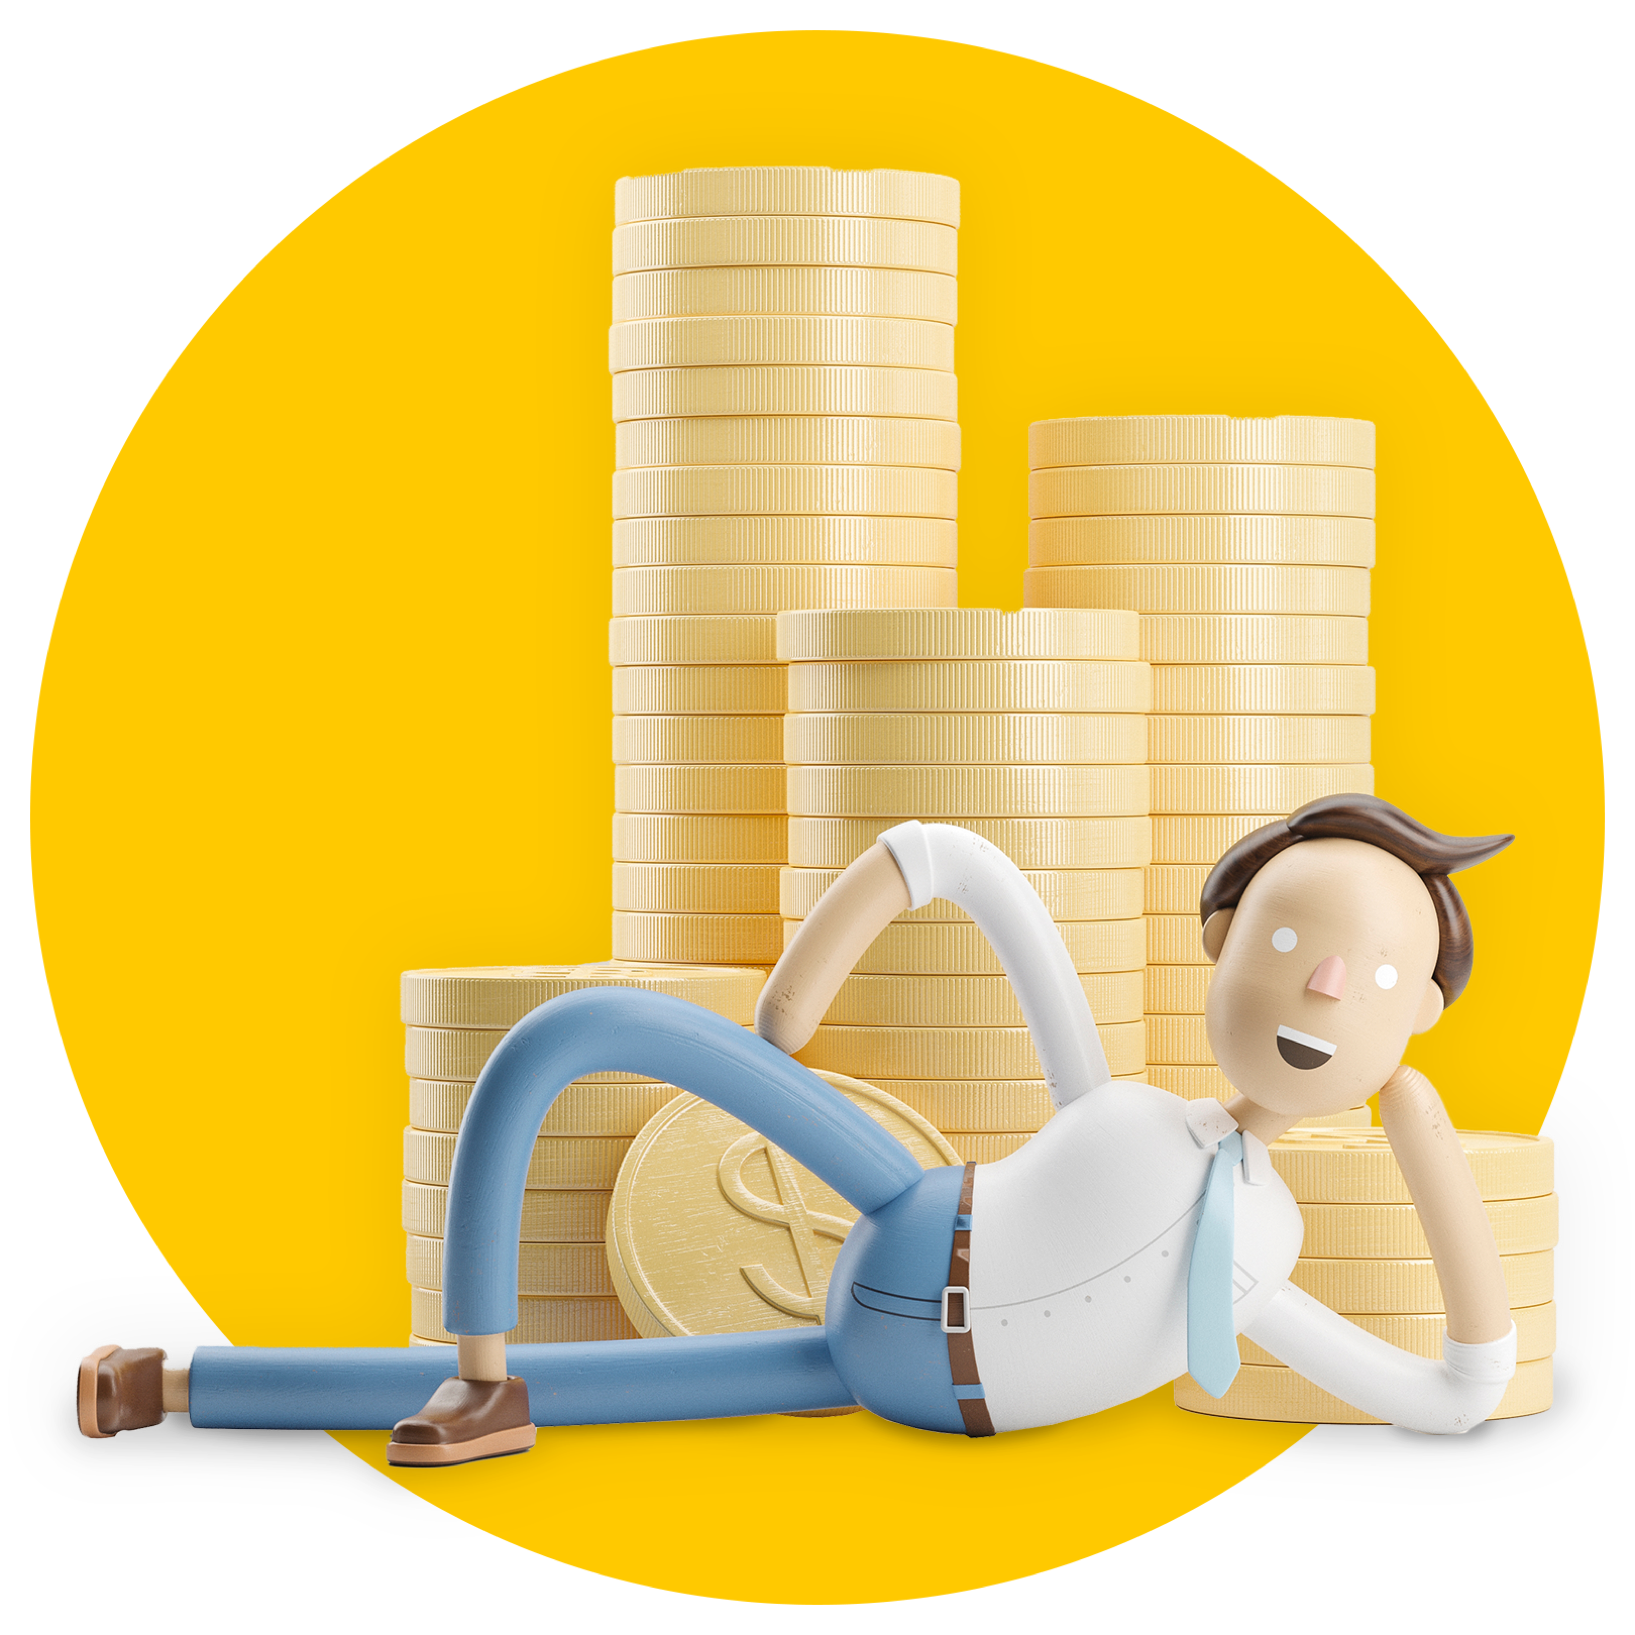
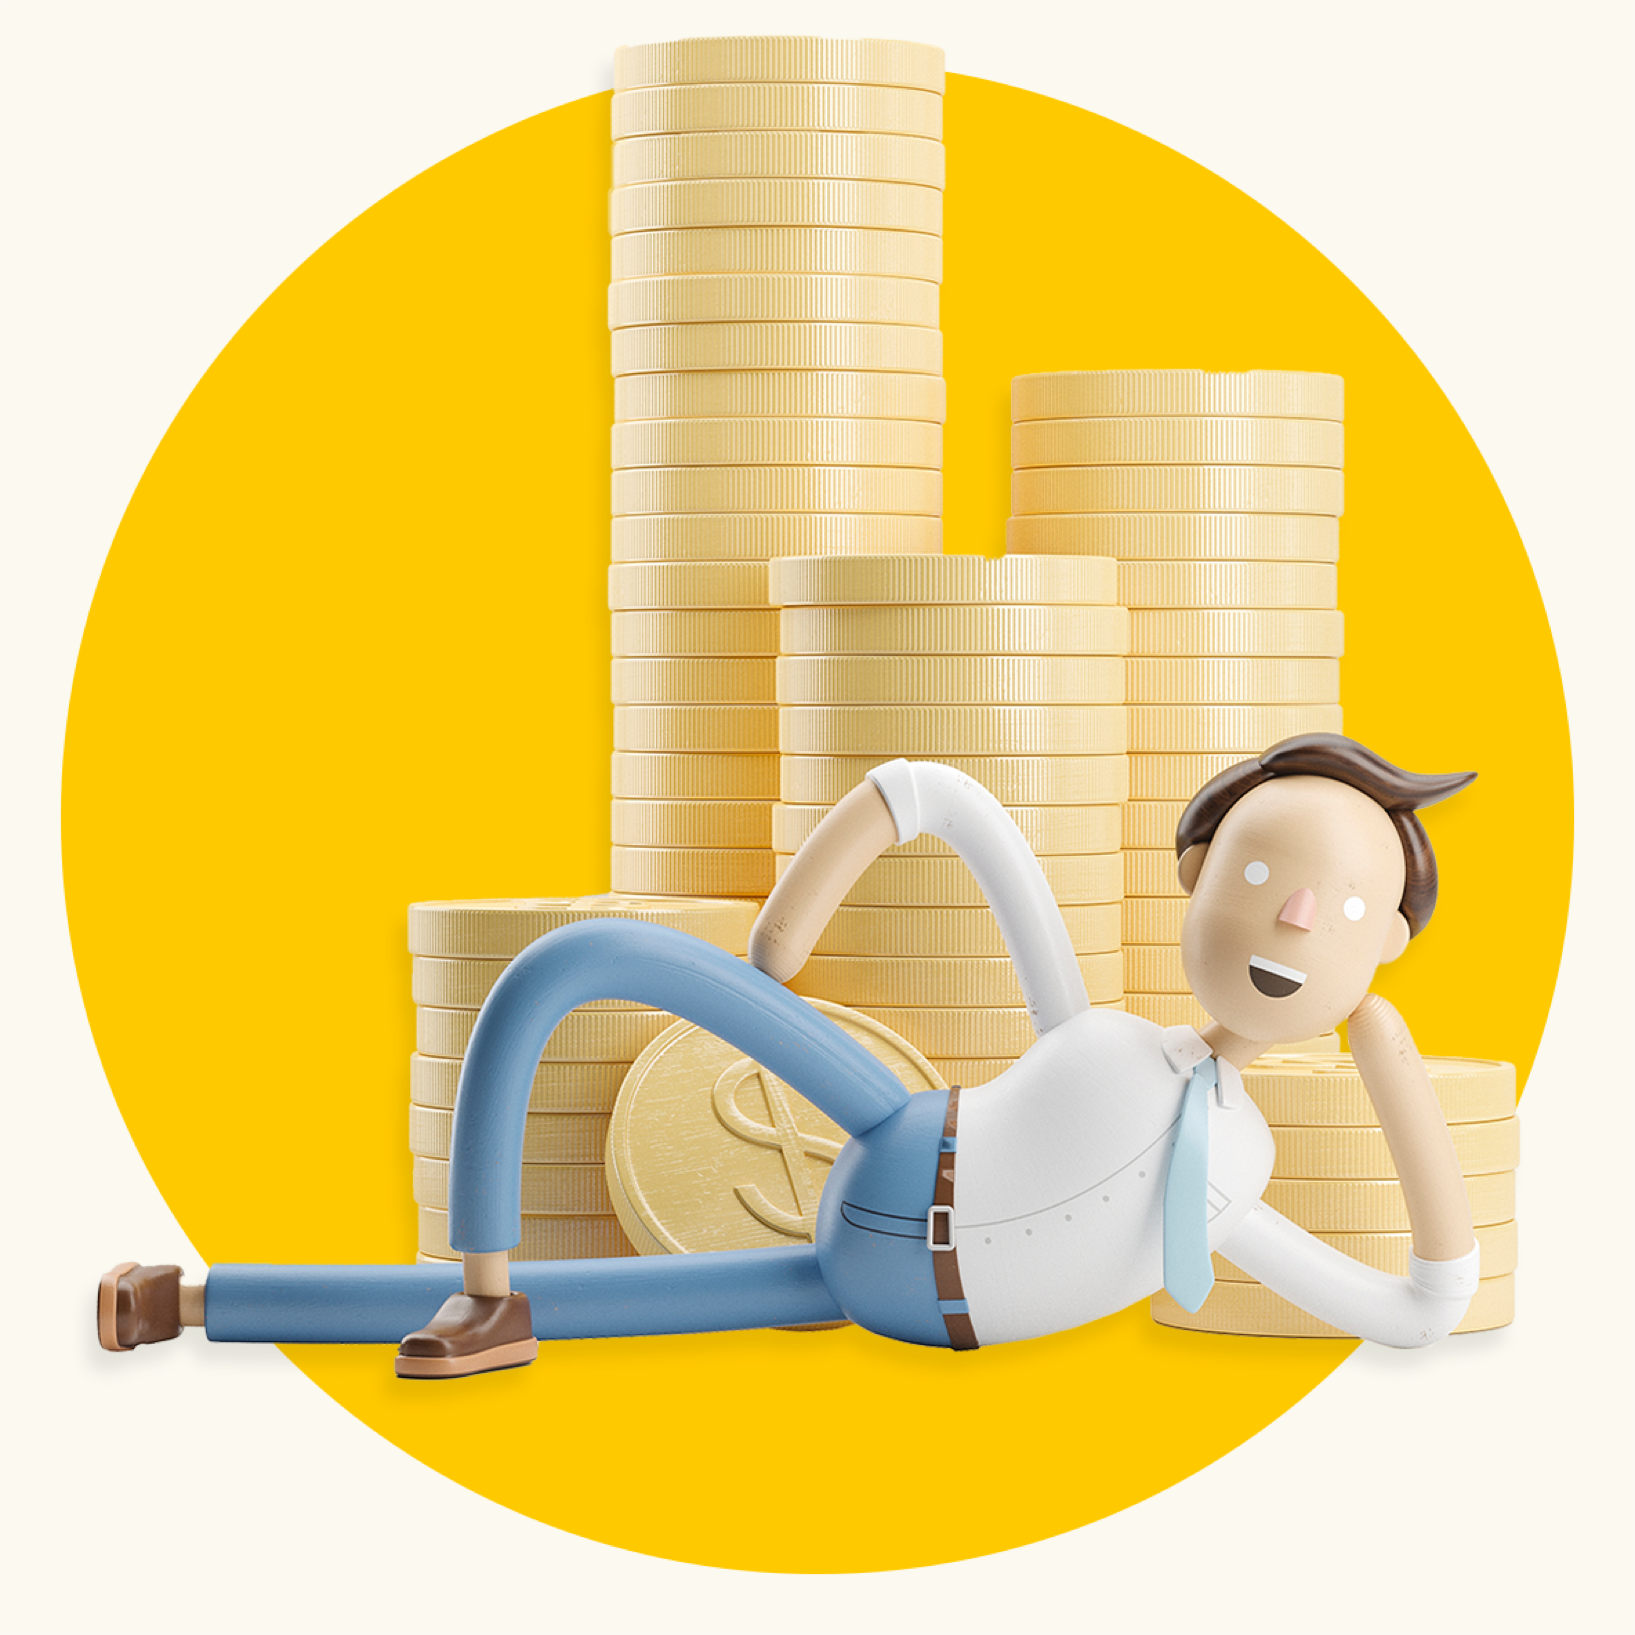
update images

diff --git a/header.php b/header.php
@@ -19,7 +19,17 @@
     <div class="container px-0">
       <nav class="navbar navbar-expand-md navbar-light" role="navigation">
 
-          <a class="navbar-brand" href="<?php echo get_home_url(); ?>">autobahn</a>
+          <a class="navbar-brand" href="<?php echo get_home_url(); ?>">
+           <svg xmlns="http://www.w3.org/2000/svg" width="104" height="18" viewBox="0 0 104 18">
+              <g fill="none" fill-rule="evenodd">
+                  <g fill="#3B012D" fill-rule="nonzero">
+                      <g>
+                          <path d="M4.152 17.371c1.68 0 3.048-.623 3.96-1.92h.048c0 .6.048 1.129.168 1.632h3.024c-.216-.815-.336-1.8-.336-3.335V9.334c0-3.192-1.776-4.823-5.232-4.823-3.48 0-5.16 1.871-5.28 4.199h3.264c.048-1.152.768-1.848 2.016-1.848 1.176 0 1.992.624 1.992 2.16v.431c-.768.048-2.136.192-3.048.336C1.2 10.341 0 11.685 0 13.676c0 2.112 1.56 3.695 4.152 3.695zm1.008-2.399c-1.176 0-1.8-.624-1.8-1.536 0-.983.576-1.44 1.968-1.68.72-.12 1.728-.215 2.448-.263v.456c0 1.104-.12 1.751-.696 2.327-.48.48-1.224.696-1.92.696zm13.056 2.4c1.56 0 2.784-.744 3.576-1.824h.048v1.535h3.144V4.895h-3.36v6.526c0 2.207-1.008 3.311-2.4 3.311-1.32 0-2.136-.84-2.136-2.687v-7.15h-3.36v7.486c0 3.31 1.752 4.99 4.488 4.99zm14.592-.12c.576 0 1.32-.097 1.776-.24v-2.568c-.216.072-.552.12-.864.12-1.152 0-1.584-.528-1.584-1.871V7.39h2.328V4.895h-2.328V1.728h-3.36v3.167h-1.968V7.39h1.968v5.902c0 2.832 1.224 3.96 4.032 3.96zm9.12.215c3.816 0 6.24-2.519 6.24-6.478 0-3.959-2.424-6.478-6.24-6.478-3.816 0-6.24 2.52-6.24 6.478 0 3.959 2.424 6.478 6.24 6.478zm0-2.591c-1.656 0-2.712-1.512-2.712-3.887s1.056-3.887 2.712-3.887c1.656 0 2.712 1.512 2.712 3.887s-1.056 3.887-2.712 3.887zm15.528 2.52c3.072 0 5.064-2.52 5.064-6.407s-1.968-6.406-5.016-6.406c-1.392 0-2.712.624-3.456 1.775H54V0h-3.36v17.083h3.264v-1.607h.048c.744 1.248 2.088 1.92 3.504 1.92zm-1.08-2.568c-1.512 0-2.544-1.416-2.544-3.839s1.032-3.839 2.544-3.839c1.608 0 2.64 1.512 2.64 3.84 0 2.326-1.032 3.838-2.64 3.838zm11.76 2.543c1.68 0 3.048-.623 3.96-1.92h.048c0 .6.048 1.129.168 1.632h3.024c-.216-.815-.336-1.8-.336-3.335V9.334c0-3.192-1.776-4.823-5.232-4.823-3.48 0-5.16 1.871-5.28 4.199h3.264c.048-1.152.768-1.848 2.016-1.848 1.176 0 1.992.624 1.992 2.16v.431c-.768.048-2.136.192-3.048.336-3.528.552-4.728 1.896-4.728 3.887 0 2.112 1.56 3.695 4.152 3.695zm1.008-2.399c-1.176 0-1.8-.624-1.8-1.536 0-.983.576-1.44 1.968-1.68.72-.12 1.728-.215 2.448-.263v.456c0 1.104-.12 1.751-.696 2.327-.48.48-1.224.696-1.92.696zm12.336 2.111v-6.526c0-2.231 1.008-3.31 2.4-3.31 1.32 0 2.136.839 2.136 2.686v7.15h3.36V9.597c0-3.31-1.752-4.99-4.488-4.99-1.296 0-2.496.528-3.36 1.631h-.048V0h-3.36v17.083h3.36zm14.4 0v-6.526c0-2.207 1.008-3.31 2.4-3.31 1.32 0 2.136.839 2.136 2.686v7.15h3.36V9.597c0-3.31-1.752-4.99-4.488-4.99-1.56 0-2.784.744-3.576 1.823h-.048V4.895H92.52v12.188h3.36z" transform="translate(-48 -37) translate(48 37)"/>
+                      </g>
+                  </g>
+              </g>
+            </svg>
+          </a>
 
           <!-- Brand and toggle get grouped for better mobile display -->
           <button class="navbar-toggler" type="button" data-toggle="collapse" data-target="#bs-example-navbar-collapse-1" aria-controls="bs-example-navbar-collapse-1" aria-expanded="false" aria-label="<?php esc_attr_e( 'Toggle navigation', 'your-theme-slug' ); ?>">

diff --git a/template-priser.php b/template-priser.php
@@ -373,7 +373,7 @@ Template Name:  Priser Template
 <?php 
   
   // Variables to feed the template part
-  $imgPath = '/dist/img/kasper--large.png';
+  $imgPath = '/dist/img/kasper-waist-up--large.png';
   $imgAltText = 'Image of Kasper Larsen';
   $preHeading = 'Book et møde';
   $heading = 'Din tur til at tage action';

diff --git a/front-page.php b/front-page.php
@@ -281,7 +281,8 @@
   <?php 
     
     // Variables to feed the template part
-    $imgPath = '/dist/img/kasper--large.png';
+    
+    $imgPath = '/dist/img/kasper-waist-up--large.png';
     $imgAltText = 'Image of Kasper Larsen';
     $preHeading = 'Book et møde';
     $heading = 'Din tur til at tage action';
